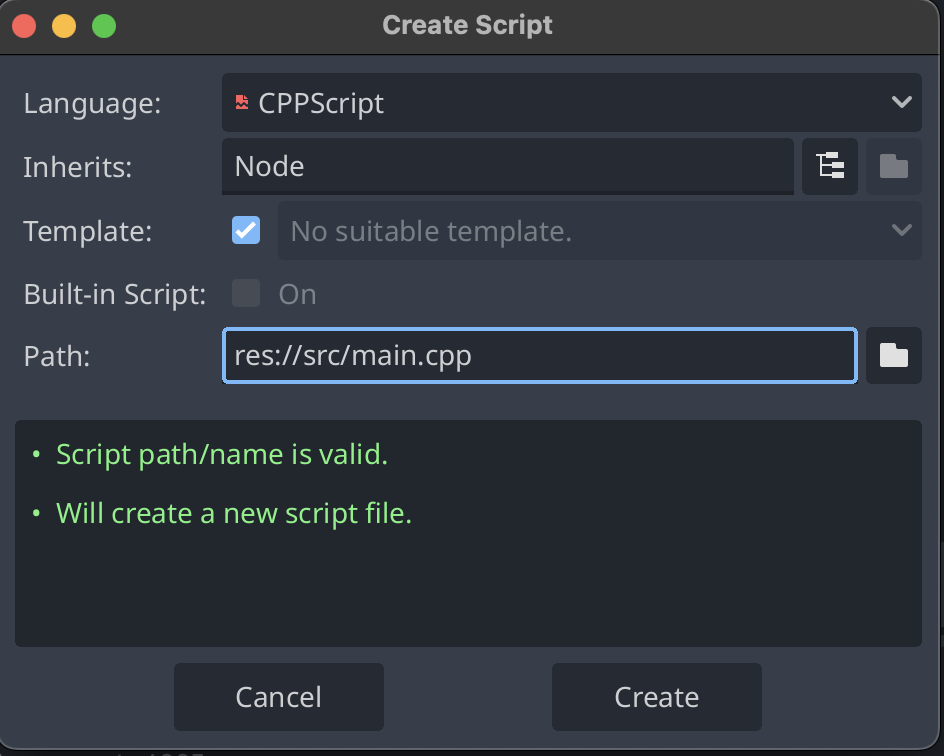
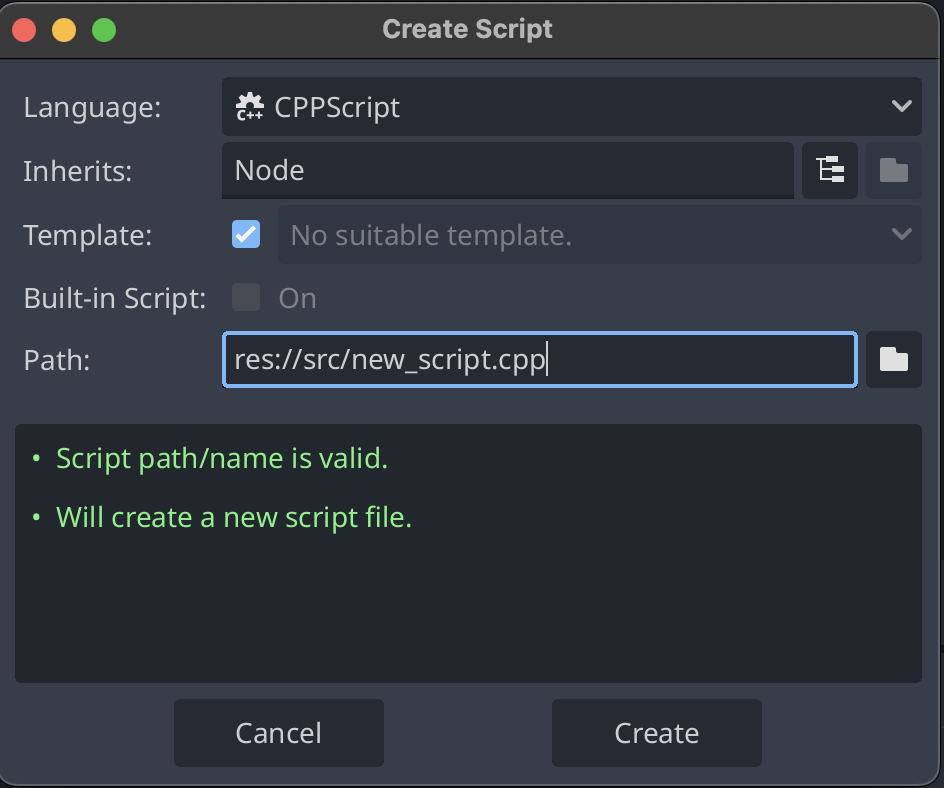
update docs

diff --git a/src/pages/index.js b/src/pages/index.js
@@ -18,7 +18,6 @@ function HomepageHeader() {
           <img
               src={animation}
               alt="loading..."
-              height={460}
               style={{
                 "border-top-left-radius": "5px",
                 "border-bottom-left-radius": "5px",

diff --git a/docs/godot/sandbox.md b/docs/godot/sandbox.md
@@ -8,37 +8,44 @@ In order to run your code in isolation, you need to create a **Sandbox** node fi
 
 ## Create a Sandbox
 
-Create a new **Scene**. The Root Node can be anything, even a **Node**. Next click **Add Child Node** and add a node of type **Sandbox**:
+Create a new **Scene**. The Root Node can be anything, even a **Node**. Next click **Add Child Node** and add a node of type **Sandbox_SrcSrc** (the name is based on the ELF script that was created and the folder it's in):
 
 ![node](/img/sandbox/node.png)
 
-Then, attach an **ELFScript** to the **Program** property.
-
-![program](/img/sandbox/program.png)
-
 Now, when running the scene, you should see printed on the console:
 
-```
-Hello World
-```
-
-## Calling functions
-
-Next, create a GDScript on the **Sandbox** node in order to call functions inside the sandbox. Inside the script add the following:
-
 ```js
-extends Sandbox
-
-func _ready() -> void:
-	var program_elf = program as ELF_src
-	program_elf.test_function()
-
+Hello World!
 ```
 
 :::note
 
-Here we are casting our program, which is a **ELFScript** to the specific binary interpreted by the sandbox. In our case, the `.elf` binary is located inside the `src/` folder, so the autogenerated name will be **ELF_src**.
-
-With that cast, we have autocomplete support inside GDScript.
+Even though you are not calling any function on the **Sandbox**, notice that the **main** function is still called. This cannot be disabled.
 
 :::
+
+## Calling functions
+
+Next, create a new **Node** of type **Node** and add a **GDScript**. Inside the script add the following:
+
+```js
+extends Node
+
+@export var sandbox: Sandbox_SrcSrc
+
+func _ready() -> void:
+	sandbox.public_function(1)
+```
+
+This will export to the editor a **Sandbox** which you have to now put on the node you created:
+
+![export sandbox](/img/sandbox/export-sandbox.png)
+
+After setting it and running, you should now see:
+
+```js
+Hello world!
+Arguments: 
+1
+Hello from the other side
+```

diff --git a/docs/godot/cppprogram.md b/docs/godot/cppprogram.md
@@ -12,23 +12,27 @@ The Sandbox can run C++ code inside it in isolation, but first you need to build
 
 ## C++ Source Files
 
-In Godot create a new folder called `src`. Inside it create a new file called `main.cpp`, by clicking on the folder and selecting `Create New` -> `Script` -> `CPPScript`.
+In Godot create a new folder called `src`. Inside it create a new cpp script, by clicking on the folder and selecting `Create New` -> `Script` -> `CPPScript`.
 
 ![new script](/img/cppprogram/new-script.png)
 
-Inside it write the following:
+Inside it write the following (it's the default that gets written once the file is created):
 
 ```cpp
+#include "api.hpp"
+
 int main() {
-	UtilityFunctions::print("Hello World");
+	UtilityFunctions::print("Hello world!\n");
+	halt();
 }
 
-void test_function() {
-	UtilityFunctions::print("test_function");
+extern "C" Variant public_function(Variant arg) {
+    UtilityFunctions::print("Arguments: ", arg);
+    return "Hello from the other side";
 }
 ```
 
-Now, simply save the file and the binary, `src.elf` should be automatically created. This file is created by compiling the source file to a binary using docker. The image used is [libriscv/compiler](https://github.com/orgs/libriscv/packages).
+Now, simply save the file and the binary, `new_file.elf` should be automatically created. This file is created by compiling the source file to a binary using docker. The image used is [libriscv/compiler](https://github.com/orgs/libriscv/packages).
 
 :::note
 
